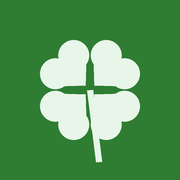
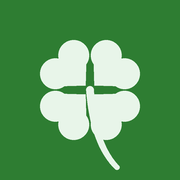
Curve the clover's stalk
Claude-Session: https://claude.ai/code/session_019FLf5ozKn5W5xxfYeNsCSc

Changed region(s): [[0.5, 0.7222, 0.6667, 0.9444], [0.4722, 0.4722, 0.5278, 0.6667]]

diff --git a/sw.js b/sw.js
@@ -1,6 +1,6 @@
 // Lucky Green service worker: keeps the app working offline.
 // Change VERSION with every update so phones pick up the new files.
-const VERSION = 'lucky-green-2026.11.18.2';
+const VERSION = 'lucky-green-2026.11.18.3';
 const FILES = ['./', './index.html', './manifest.json', './icon-192.png', './icon-512.png', './apple-touch-icon.png'];
 
 self.addEventListener('install', e => {

diff --git a/index.html b/index.html
@@ -109,7 +109,7 @@ nav button.on .ic{transform:scale(1.1)}
 
 <script>
 'use strict';
-const APP_VERSION = '2026.11.18.2';
+const APP_VERSION = '2026.11.18.3';
 const STORE_KEY = 'luckygreen.v1';
 
 /* ---------- Storage (everything stays on this phone) ---------- */
